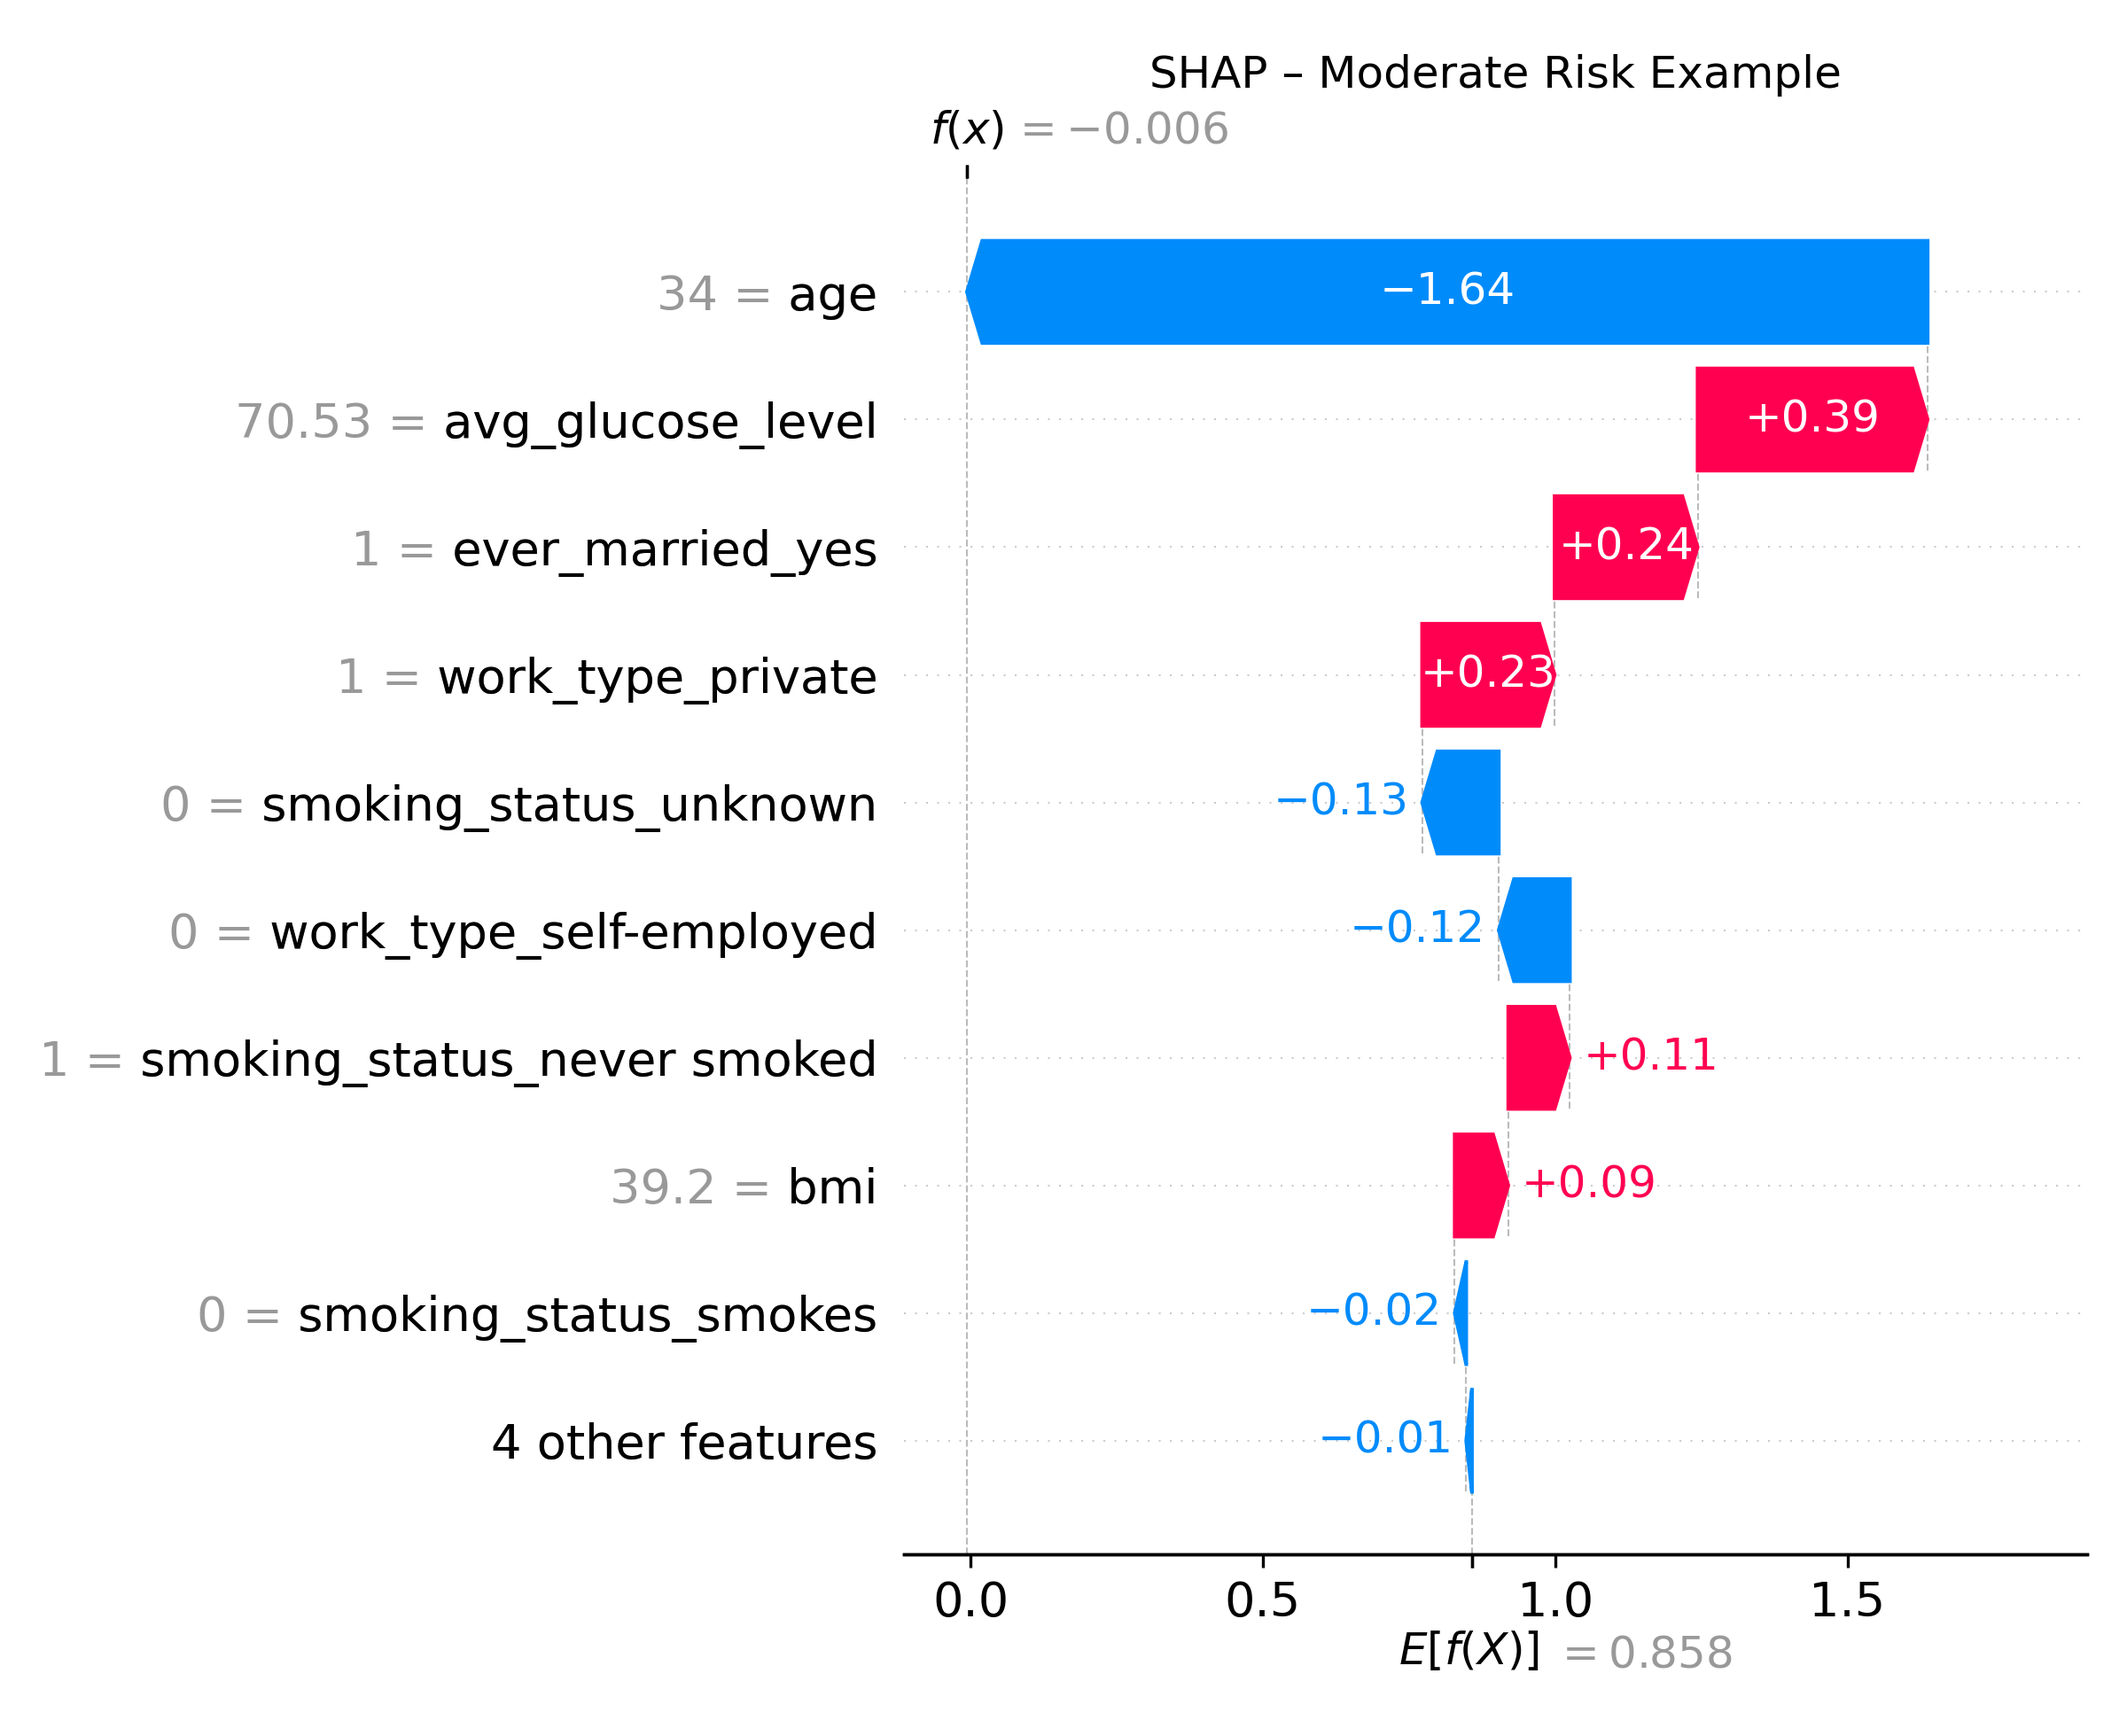
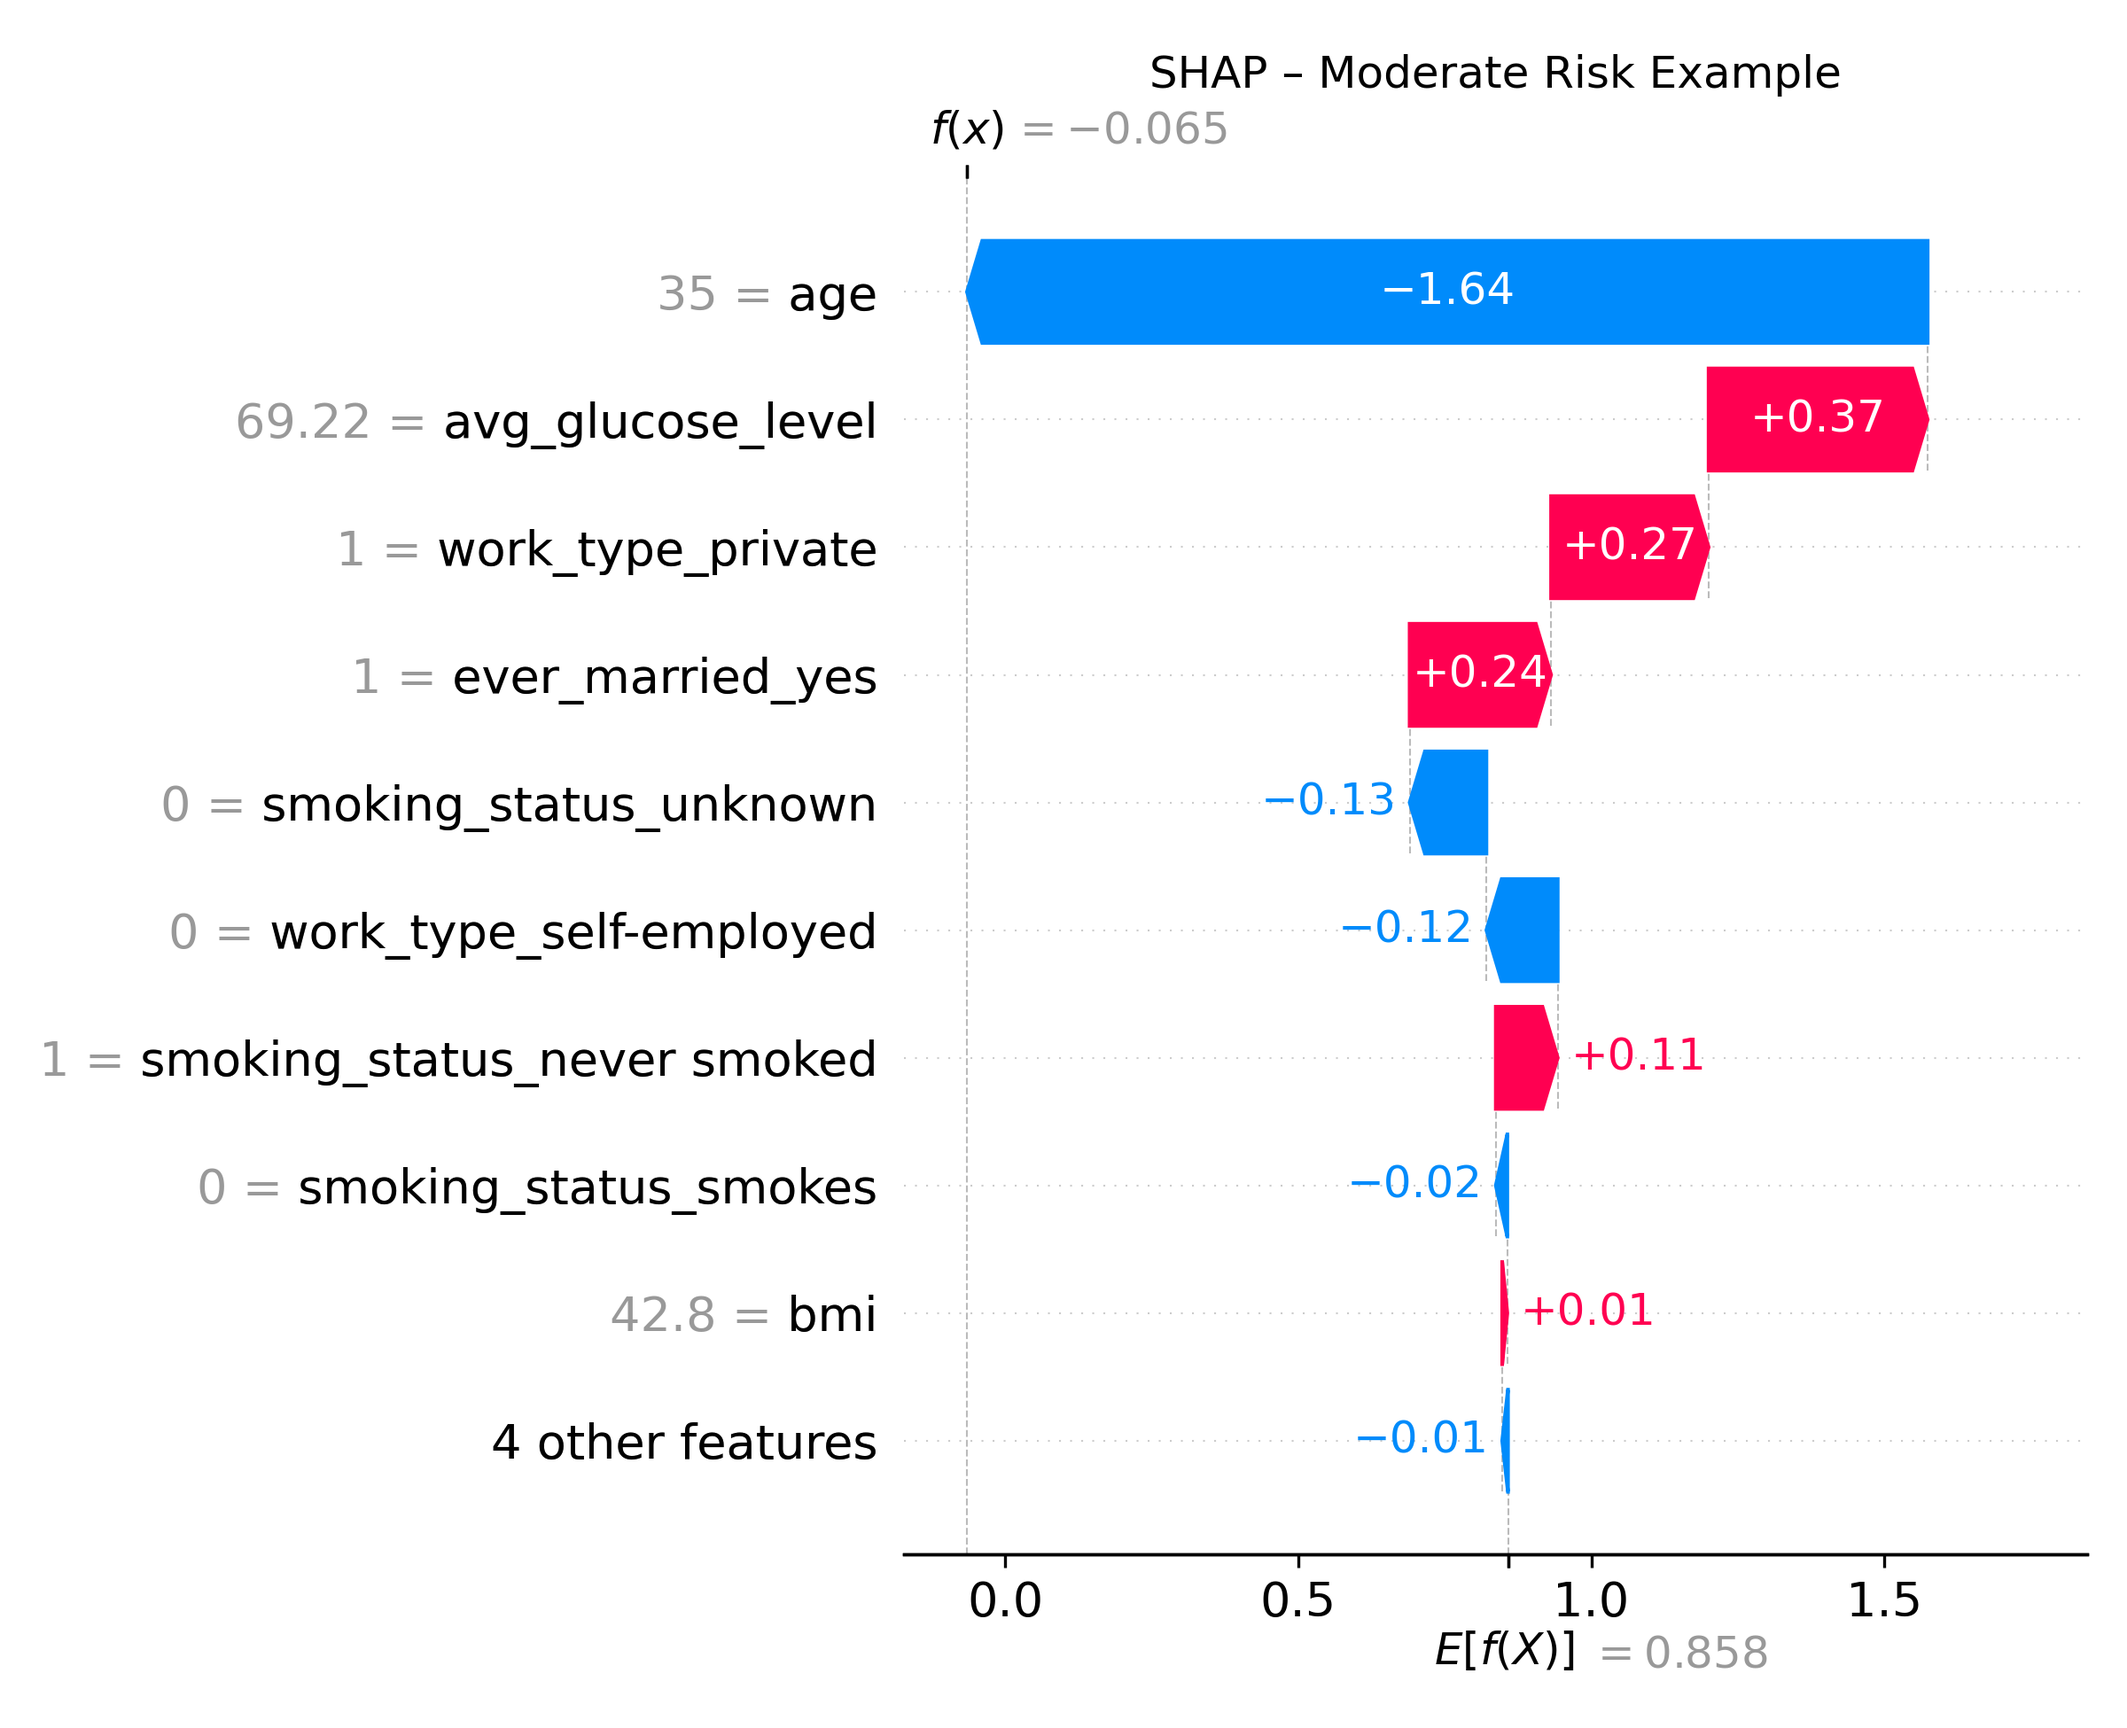
SHAP and PDP module completed. Images were successfully created to show the SHAP summary and examples of SHAP analysis.

diff --git a/src/modeling/shap_and_pdp.py b/src/modeling/shap_and_pdp.py
@@ -10,45 +10,170 @@ Outputs:
 """
 
 from cleaning.data_preprocess import preprocess_data, load_clean_data
+from sklearn.inspection import PartialDependenceDisplay
+
 import joblib
 import pandas as pd
 import shap 
+import matplotlib.pyplot as plt 
+import os 
 
 def load_model_and_data():
     model = joblib.load("../../models/xgboost_tuned.pkl")
     X_train, X_test, y_train, y_test = preprocess_data()
     original_df = load_clean_data()
 
-    # Convert all columns to float64 safely
+    # Ensure all SHAP features are numeric (required)
     X_test_float = X_test.copy()
     for col in X_test_float.columns:
         try:
             X_test_float[col] = pd.to_numeric(X_test_float[col], errors='raise').astype('float64')
         except Exception as e:
-            print(f"❌ Conversion failed for column '{col}': {e}")
+            print(f"Conversion failed for column '{col}': {e}")
 
     return model, X_test, X_test_float, y_test, original_df
+
+def generate_shap_summary(shap_values):
+    """
+    Generates and saves a SHAP summary bar plot showing global feature importance.
+
+    Args:
+        shap_values (shap.Explanation): Computed SHAP values for the dataset.
+    """
+    os.makedirs("../../select_viz", exist_ok = True)
+    
+    # Plot Shap Summary
+    plt.figure()
+    shap.plots.bar(shap_values, show=False)
+    plt.title("SHAP Feature Importance – Mean Absolute Impact")
+    plt.tight_layout()
+    plt.savefig("../../select_viz/shap_feature_importance.png", dpi=300)
+    plt.show()
+    plt.close()
+    
+def generate_shap_waterfall(shap_values, row_idx, label="Example"):
+    """
+    Generates and saves a SHAP waterfall plot for a specific prediction.
+
+    Args:
+        shap_values (shap.Explanation): SHAP values object.
+        row_idx (int): Index of the row to visualize.
+        label (str): Custom label for title and filename (e.g., 'High', 'Low', 'Moderate').
+
+    Saves:
+        Waterfall plot to /select_viz/shap_<label>_risk.png
+    """
+    os.makedirs("../../select_viz", exist_ok=True)
+    
+    plt.figure()
+    shap.plots.waterfall(shap_values[row_idx], show = False)
+    plt.title(f"SHAP – {label} Risk Example")
+    plt.tight_layout()
+    plt.savefig(f"../../select_viz/shap_{label.lower()}_risk.png", dpi=300)
+    plt.show()
+    plt.close()
+    print(f"SHAP waterfall plot saved for {label} risk.")
+
+def generate_waterfall_for_risk_levels(model, X_test, X_test_float, y_test, original_df, shap_values):
+    """
+    Identifies high, moderate, and low risk patients and generates SHAP waterfall plots.
+
+    Args:
+        model: Trained model.
+        X_test: Original test features (unconverted).
+        X_test_float: Float-converted test data (for SHAP).
+        y_test: True labels.
+        original_df: Cleaned full dataset (for metadata).
+        shap_values: SHAP Explanation object.
+    """
+    
+    # Predict stroke probabilities
+    probs = model.predict_proba(X_test_float)[:, 1]
+
+    # Merge test features with predicted probabilities and metadata
+    results = X_test.copy()
+    results["prob_stroke"] = probs
+    results["true_stroke"] = y_test.values
+    results["heart_disease"] = original_df.loc[X_test.index, "heart_disease"].values
+
+    # --- HIGH RISK (with heart disease, highest prob) ---
+    high_risk = results[results["heart_disease"] == 1].sort_values("prob_stroke", ascending=False)
+    high_idx = X_test.index.get_loc(high_risk.index[0])
+    generate_shap_waterfall(shap_values, row_idx=high_idx, label="High")
+
+    # --- LOW RISK (lowest prob overall) ---
+    low_risk = results.sort_values("prob_stroke", ascending=True)
+    low_idx = X_test.index.get_loc(low_risk.index[0])
+    generate_shap_waterfall(shap_values, row_idx=low_idx, label="Low")
+
+    # --- MODERATE RISK (probability between 0.3 and 0.5) ---
+    moderate_risk = results[(results["prob_stroke"] >= 0.3) & (results["prob_stroke"] <= 0.5)]
+    if not moderate_risk.empty:
+        mod_idx = X_test.index.get_loc(moderate_risk.index[0])
+        generate_shap_waterfall(shap_values, row_idx=mod_idx, label="Moderate")
+
+def plot_PDP(model, X_test_float, feature_name):
+    """
+    Generates and saves a Partial Dependence Plot (PDP) for a given numeric feature.
+
+    Args:
+        model: Trained classifier (e.g., tuned XGBoost).
+        X_test_float (pd.DataFrame): Float-converted test data.
+        feature_name (str): The name of the numeric feature to plot.
+
+    Saves:
+        A PNG image of the PDP to /select_viz/pdp_<feature_name>.png
+    """
+    
+    fig, ax = plt.subplots(figsize=(8,6))
+    PartialDependenceDisplay.from_estimator(
+        model,
+        X_test_float,
+        features = [feature_name],
+        kind = "average",
+        grid_resolution = 100,
+        ax = ax
+    )
+    plt.title(f"Partial Dependence Plot – {feature_name} vs Stroke Probability")
+    plt.tight_layout()
+    plt.savefig(f"../../select_viz/pdp_{feature_name}.png", dpi=300)
+    plt.show()
+    plt.close()
+    
+
+
 
 def main():
     model, X_test, X_test_float, y_test, original_df = load_model_and_data()
 
-    print("\n✅ Loaded model and data.")
-    print("\n🔎 Data type check (X_test_float):")
+    # Confirm input integrity
+    print("\nLoaded model and data.")
+    print("\nData type check (X_test_float):")
     print(X_test_float.dtypes)
 
-    print("\n🧪 Null check (X_test_float):")
+    print("\nNull check (X_test_float):")
     print(X_test_float.isnull().sum())
 
-    print("\n🔍 Object columns (should be empty):")
+    print("\nObject columns (should be empty):")
     print([col for col in X_test_float.columns if X_test_float[col].dtype == 'object'])
 
-    print(f"\n📐 Data shape: {X_test_float.shape}")
+    print(f"\nData shape: {X_test_float.shape}")
 
-    # Now test SHAP
-    print("\n🔍 Initializing SHAP Explainer...")
+    # Run SHAP
+    print("\nInitializing SHAP Explainer...")
     explainer = shap.Explainer(model, X_test_float)
     shap_values = explainer(X_test_float)
-    print("✅ SHAP values computed successfully.")
+    print("SHAP values computed successfully.")
+    
+    # Visual outputs
+    generate_shap_summary(shap_values)
+    generate_waterfall_for_risk_levels(model, X_test, X_test_float, y_test, original_df, shap_values)
+
+    # PDPs for top numeric features
+    plot_PDP(model, X_test_float, "age")
+    plot_PDP(model, X_test_float, "bmi")
+    plot_PDP(model, X_test_float, "avg_glucose_level")
+   
 
 if __name__ == "__main__":
     main()
